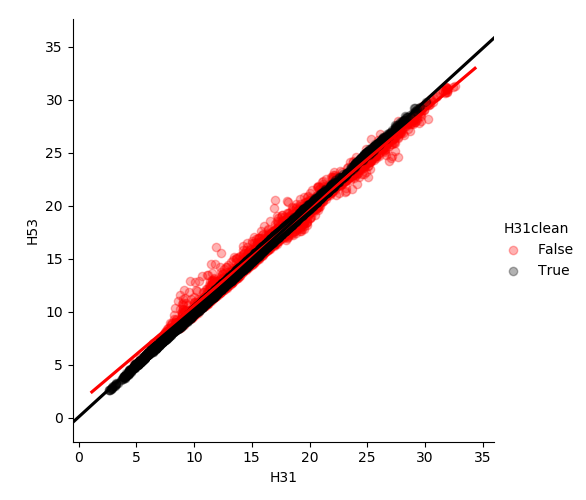
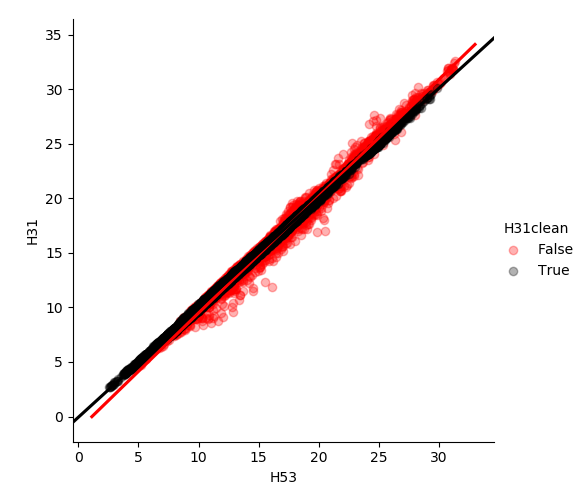
Set reference hobo (H53) to x-axis on plots. Created .gitignore

diff --git a/calibration.py b/calibration.py
@@ -193,7 +193,7 @@ def ref_scatters(df, figtitle=None, folder=None, filename=None):
         yval = dfeach[ref].values
         slope, intercept, r_value, p_value, std_err = stats.linregress(xval,
                                                                        yval)
-        g = sns.regplot(x=df[col], y=ref, data=df, ax=axes[i // 4][i % 4],
+        g = sns.regplot(x=ref, y=df[col], data=df, ax=axes[i // 4][i % 4],
                         scatter_kws={'s': 1}, truncate=True,
                         line_kws={'label': "$y={0:.1f}x+{1:.1f}$".format(slope,
                                                                          intercept)})
@@ -220,7 +220,7 @@ def lmplot_outliers(df, folder=None):
     """ Plots  scatter with 2 lines for outliers and good data.
     lmplot cannot be combined with subplots, so multiple figures are created"""
     for i in others:
-        sns.lmplot(x=i, y=ref, hue=i + "clean", palette=['r', 'k'],
+        sns.lmplot(x=ref, y=i, hue=i + "clean", palette=['r', 'k'],
                    data=df, scatter_kws={'alpha': 0.3})
         plt.show()
         if folder:
@@ -256,7 +256,7 @@ reg = calc_reg()
 
 # lmplot_outliers(mark_outliers(temps, method='Thompson'), folder='outliers/Thompson')
 # lmplot_outliers(mark_outliers(temps, method='IQR'), folder='outliers/IQR')
-scatter_matrix_lower(temps, folder='scatters', filename='matrix_raw.png')
+# scatter_matrix_lower(temps, folder='scatters', filename='matrix_raw.png')
 
 
 print(time.time() - start)
